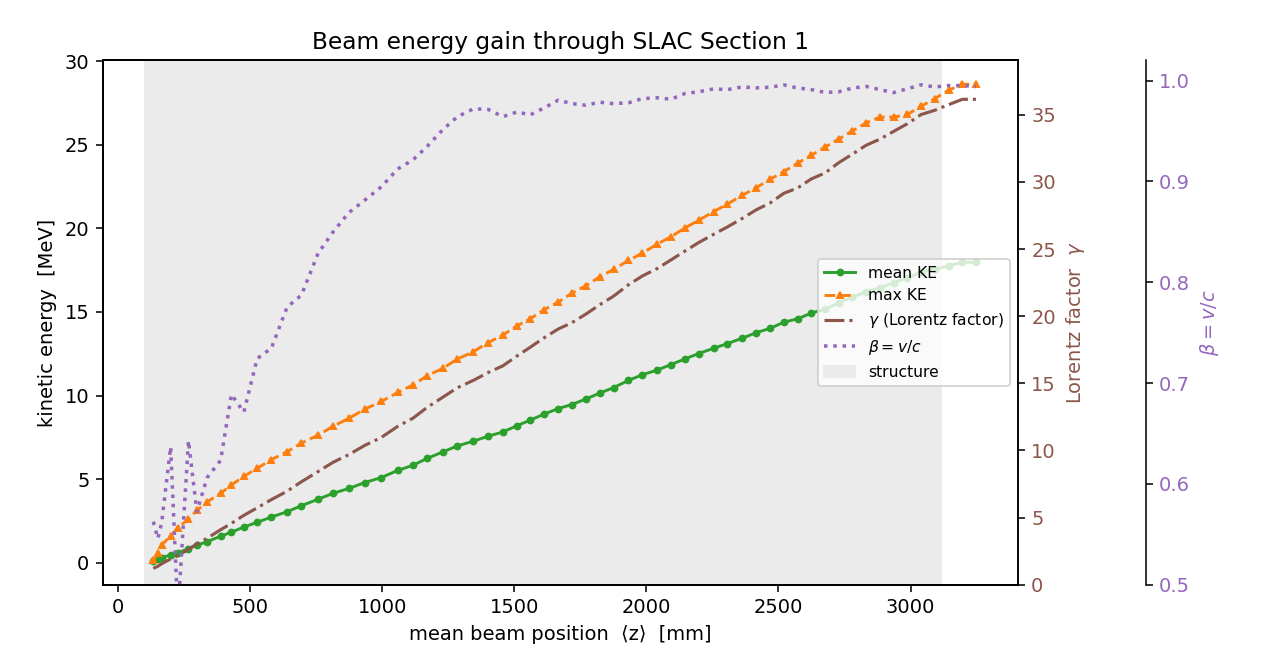
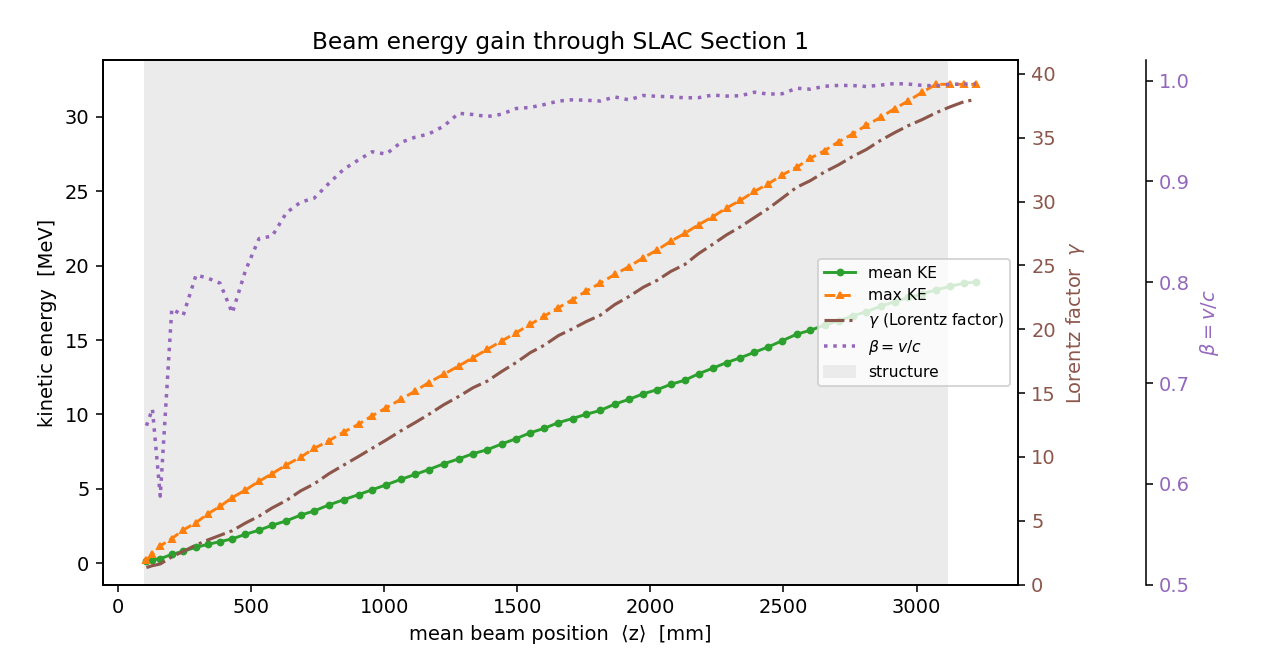
plots: local-in-z beam envelope via fixed-z virtual screens
Replace the gun's pooled z-histogram envelope/energy profile with a
fixed-z virtual-screen reconstruction: id-track each macroparticle across
the volumetric dumps and interpolate its phase space to every z-plane it
crosses, so each screen sees every particle exactly once. This is a true
local-in-z phase space with no z-binning and no quasi-DC pooling
assumption, removing the bin-to-bin sampling jitter in εn,x (a small
difference of large moments).

- pipeline/beam_metrics.py: new shared screen_profile() helper (mean/rms/
  max + emittance pairs per screen).
- gun/plot_gun.py: use screen_profile for beam_envelope + energy_gain.
- linac_sec1/plot_linac_sec1.py: σ_x envelope now the local screen value
  (was per-dump projected RMS); preserves real injection-mismatch
  oscillation, drops the projection smear.
- injector/plot_injector.py: tighten phase-space panels to the beam
  (charge-weighted percentile trim + pad).
- Docs (gun, linac_sec1 READMEs) + regenerated result figures.

diff --git a/pipeline/beam_metrics.py b/pipeline/beam_metrics.py
@@ -22,3 +22,92 @@ def rms_emit(q, uq, w):
     u2 = np.average((uq - um) ** 2, weights=w)
     qu = np.average((q - qm) * (uq - um), weights=w)
     return float(np.sqrt(max(q2 * u2 - qu * qu, 0.0)))
+
+
+def screen_profile(idP, zP, wP, quantities, emit_pairs=(), nscreen=80,
+                   min_cross=20, zlo=None, zhi=None):
+    """Charge-weighted beam moments on fixed-z virtual SCREENS (station diagnostic).
+
+    Pools every ``(id, dump)`` row and treats each macroparticle's id-trajectory as a
+    path that crosses every z-plane once (valid where motion is forward / monotonic in
+    z — accelerating WarpX stages). For each screen each crossing particle's listed
+    quantities are linearly interpolated along its own trajectory to the plane, then
+    charge-weighted moments are accumulated per screen. This is a true LOCAL-in-z phase
+    space: every screen sees each particle exactly once — no z-binning and no
+    pooling-stream assumption (a z-histogram of the pooled quasi-DC stream groups
+    unrelated particles and makes a difference-of-large-moments quantity like εn,x
+    jitter bin to bin). See gun/README.md → ``beam_envelope.png``.
+
+    Parameters
+    ----------
+    idP, zP, wP : (N,) arrays pooled over all dumps (particle id, z [m], weight).
+    quantities  : dict name -> (N,) array; per-screen mean/rms/max are returned for each.
+    emit_pairs  : iterable of (qname, uname) (both must be in ``quantities``); returns
+                  the raw rms emittance sqrt(⟨q²⟩⟨u²⟩−⟨qu⟩²) per screen for each pair.
+
+    Returns ``(screens, out)``: ``screens`` are the plane positions [m]; ``out`` has
+    ``count`` and dicts ``mean``/``rms``/``max`` (keyed by quantity name) and ``emit``
+    (keyed by the ``(qname, uname)`` tuple). All moments are RAW (caller scales units)
+    and NaN on screens crossed by < ``min_cross`` particles.
+    """
+    idP = np.asarray(idP); zP = np.asarray(zP, float); wP = np.asarray(wP, float)
+    names = list(quantities)
+    Q = {n: np.asarray(quantities[n], float) for n in names}
+    nan = np.full(nscreen, np.nan)
+    empty = dict(count=np.zeros(nscreen),
+                 mean={n: nan.copy() for n in names},
+                 rms={n: nan.copy() for n in names},
+                 max={n: nan.copy() for n in names},
+                 emit={p: nan.copy() for p in emit_pairs})
+    if zP.size == 0:
+        return np.linspace(0.0, 1.0, nscreen), empty
+    lo = zP.min() if zlo is None else zlo
+    hi = zP.max() if zhi is None else zhi
+    screens = np.linspace(lo, hi, nscreen)
+
+    W = np.zeros(nscreen); Cnt = np.zeros(nscreen)
+    S1 = {n: np.zeros(nscreen) for n in names}      # Σ w·v
+    S2 = {n: np.zeros(nscreen) for n in names}      # Σ w·v²
+    Mx = {n: np.full(nscreen, -np.inf) for n in names}
+    SP = {p: np.zeros(nscreen) for p in emit_pairs}  # Σ w·q·u (cross term)
+
+    order = np.argsort(idP, kind="stable")
+    ids = idP[order]
+    zs = zP[order]; ws = wP[order]
+    Qs = {n: Q[n][order] for n in names}
+    bnd = np.flatnonzero(np.r_[True, ids[1:] != ids[:-1], True])  # id-group boundaries
+    for g in range(len(bnd) - 1):
+        a, b = bnd[g], bnd[g + 1]
+        if b - a < 2:                               # need ≥2 dumps to interpolate
+            continue
+        o = a + np.argsort(zs[a:b])                 # np.interp needs increasing z
+        zi = zs[o]
+        m = (screens >= zi[0]) & (screens <= zi[-1])
+        if not m.any():
+            continue
+        si = np.flatnonzero(m); sc = screens[si]
+        wi = ws[a]                                  # weight is constant per id
+        vals = {n: np.interp(sc, zi, Qs[n][o]) for n in names}
+        W[si] += wi; Cnt[si] += 1.0
+        for n in names:
+            v = vals[n]
+            S1[n][si] += wi * v; S2[n][si] += wi * v * v
+            np.maximum.at(Mx[n], si, v)
+        for (qn, un) in emit_pairs:
+            SP[(qn, un)][si] += wi * vals[qn] * vals[un]
+
+    ok = Cnt >= min_cross
+    Wm = np.where(ok, W, np.nan)
+    out = dict(count=Cnt, mean={}, rms={}, max={}, emit={})
+    for n in names:
+        mu = S1[n] / Wm
+        out["mean"][n] = mu
+        out["rms"][n] = np.sqrt(np.clip(S2[n] / Wm - mu * mu, 0.0, None))
+        out["max"][n] = np.where(ok, Mx[n], np.nan)
+    for (qn, un) in emit_pairs:
+        mq = S1[qn] / Wm; mu = S1[un] / Wm
+        vq = S2[qn] / Wm - mq * mq
+        vu = S2[un] / Wm - mu * mu
+        cqu = SP[(qn, un)] / Wm - mq * mu
+        out["emit"][(qn, un)] = np.sqrt(np.clip(vq * vu - cqu * cqu, 0.0, None))
+    return screens, out

diff --git a/gun/plot_gun.py b/gun/plot_gun.py
@@ -16,7 +16,7 @@ from matplotlib.colors import LogNorm
 import openpmd_api as io
 from openpmd_viewer import OpenPMDTimeSeries
 
-from pipeline.beam_metrics import rms_emit
+from pipeline.beam_metrics import rms_emit, screen_profile
 
 MC2 = 0.51099895e3           # electron rest energy [keV]
 GUN_FIELD = "gun/gun_field/gun_E.h5"
@@ -62,12 +62,14 @@ def main():
 
     t_ns, zmean, ke_mean, ke_max, n_live = [], [], [], [], []
     sig_r, emit_nx = [], []
-    # Pooled (all-dump) columns binned by ACTUAL z for the per-z profile: a per-dump ⟨z⟩
-    # aggregate is meaningless for the timed quasi-DC stream (see README -> "Beam representation").
-    z_pool, ke_pool, x_pool, ux_pool, w_pool = [], [], [], [], []
+    # Pooled (all-dump) columns for the per-z profile, kept WITH the particle id so the profile
+    # is reconstructed as fixed-z virtual SCREENS (id-track each particle's crossing of every
+    # z-plane), not a z-histogram: a per-dump ⟨z⟩ aggregate is meaningless for the timed quasi-DC
+    # stream (see README -> "Beam representation"). See screen_profile().
+    id_pool, z_pool, ke_pool, x_pool, ux_pool, w_pool = [], [], [], [], [], []
     for i, it in enumerate(iters):
-        z, x, ux, uy, uz, w = ts.get_particle(
-            ["z", "x", "ux", "uy", "uz", "w"], species="electrons", iteration=it)
+        idp, z, x, ux, uy, uz, w = ts.get_particle(
+            ["id", "z", "x", "ux", "uy", "uz", "w"], species="electrons", iteration=it)
         n_live.append(len(z))
         t_ns.append(ts.t[i] * 1e9)
         if len(z) == 0:
@@ -77,6 +79,7 @@ def main():
         ke = (gamma_of(ux, uy, uz) - 1.0) * MC2
         zmean.append(z.mean() * 1e3)
         ke_mean.append(ke.mean()); ke_max.append(ke.max())
+        id_pool.append(idp.astype(np.int64))
         z_pool.append(z); ke_pool.append(ke); x_pool.append(x); ux_pool.append(ux); w_pool.append(w)
         # Single-plane RMS σ_x = sqrt(⟨(x−⟨x⟩)²⟩) [mm] (pairs with εn,x); radial RMS is √2·σ_x.
         xm = np.average(x, weights=w)
@@ -90,26 +93,18 @@ def main():
     print(f"beam: {n_live[0]} launched, {n_live[-1]} at last dump; "
           f"peak ⟨KE⟩ {np.nanmax(ke_mean):.1f} keV, max KE {np.nanmax(ke_max):.1f} keV")
 
-    # ── Per-z PROFILE (pooled over all dumps), binned by actual z ──────────────
+    # ── Per-z PROFILE via fixed-z virtual SCREENS (id-tracked plane crossings) ──
     zc = kez = kezmax = sxz = enz = np.array([])
     if z_pool:
-        zP = np.concatenate(z_pool); keP = np.concatenate(ke_pool)
-        xP = np.concatenate(x_pool); uxP = np.concatenate(ux_pool); wP = np.concatenate(w_pool)
-        nbin = 60
-        edges = np.linspace(0.0, zP.max(), nbin + 1)
-        idx = np.clip(np.digitize(zP, edges) - 1, 0, nbin - 1)
-        zc = 0.5 * (edges[:-1] + edges[1:]) * 1e3      # bin centers [mm]
-        kez = np.full(nbin, np.nan); kezmax = np.full(nbin, np.nan)
-        sxz = np.full(nbin, np.nan); enz = np.full(nbin, np.nan)
-        for b in range(nbin):
-            m = idx == b
-            if m.sum() < 20:                            # ignore sparse edge bins
-                continue
-            xb, uxb, wb, keb = xP[m], uxP[m], wP[m], keP[m]
-            kez[b] = np.average(keb, weights=wb); kezmax[b] = keb.max()
-            xm = np.average(xb, weights=wb)
-            sxz[b] = np.sqrt(np.average((xb - xm) ** 2, weights=wb)) * 1e3
-            enz[b] = rms_emit(xb, uxb, wb) * 1e6
+        idP = np.concatenate(id_pool); zP = np.concatenate(z_pool)
+        xP = np.concatenate(x_pool); uxP = np.concatenate(ux_pool)
+        keP = np.concatenate(ke_pool); wP = np.concatenate(w_pool)
+        screens, prof = screen_profile(
+            idP, zP, wP, {"x": xP, "ux": uxP, "ke": keP}, emit_pairs=[("x", "ux")])
+        zc = screens * 1e3                                  # [mm]
+        sxz = prof["rms"]["x"] * 1e3                        # σ_x [mm]
+        enz = prof["emit"][("x", "ux")] * 1e6              # εn,x [mm·mrad]
+        kez = prof["mean"]["ke"]; kezmax = prof["max"]["ke"]
 
     # ── Fig 2: r–z at launch / mid / exit ─────────────────────────────────────
     live = [it for it, n in zip(iters, n_live) if n > 0]

diff --git a/linac_sec1/plot_linac_sec1.py b/linac_sec1/plot_linac_sec1.py
@@ -14,6 +14,7 @@ import matplotlib.pyplot as plt
 import openpmd_api as io
 from openpmd_viewer import OpenPMDTimeSeries
 
+from pipeline.beam_metrics import screen_profile
 from .build_linac_sec1_field import Z_STRUCT, RMAX, BORE_R
 from . import DEFAULT_OUTDIR
 
@@ -63,10 +64,11 @@ def beam_track(diag):
         return None
     rec = dict(z=[], ke=[], kemax=[], beta=[], sigx=[], q=[])
     snaps = {}
+    pool = {k: [] for k in ("id", "z", "x", "w")}   # pooled (id, dump) rows → screen envelope
     q_entered = None                              # charge in the FIRST dump (already post-scrape)
     for it in its:
-        x, y, z, ux, uy, uz, w = ts.get_particle(   # species plural "electrons"
-            ["x", "y", "z", "ux", "uy", "uz", "w"], species="electrons", iteration=it)
+        idp, x, y, z, ux, uy, uz, w = ts.get_particle(   # species plural "electrons"
+            ["id", "x", "y", "z", "ux", "uy", "uz", "w"], species="electrons", iteration=it)
         if q_entered is None:
             q_entered = w.sum()
         if len(z) < 5:
@@ -80,8 +82,19 @@ def beam_track(diag):
         rec["sigx"].append(wstat(x, w)[1])        # centered weighted RMS
         rec["q"].append(w.sum())
         snaps[it] = (z, ke, w)
+        pool["id"].append(idp.astype(np.int64))
+        pool["z"].append(z); pool["x"].append(x); pool["w"].append(w)
     for k in rec:
         rec[k] = np.asarray(rec[k])
+    # Local-in-z envelope on fixed virtual screens (id-tracked plane crossings): a local σ_x(z)
+    # rather than the per-dump PROJECTED σ_x (which mixes the beam's whole z-extent at each dump).
+    # See pipeline/beam_metrics.screen_profile and linac_sec1/README.md → beam_envelope.
+    if pool["id"]:
+        screens, prof = screen_profile(
+            np.concatenate(pool["id"]), np.concatenate(pool["z"]),
+            np.concatenate(pool["w"]), {"x": np.concatenate(pool["x"])})
+        rec["z_screen"] = screens
+        rec["sigx_screen"] = prof["rms"]["x"]
     if not rec["z"].size:
         return None
     if not q_entered:
@@ -184,7 +197,12 @@ def main():
 
     # Fig 4: transverse envelope + survival
     fig, (a1, a2) = plt.subplots(2, 1, figsize=(8.2, 6.4), constrained_layout=True, sharex=True)
-    a1.plot(rec["z"] * 1e3, rec["sigx"] * 1e3, "o-", color="C0", ms=3)
+    # Local σ_x(z) on fixed virtual screens (id-tracked crossings) — smooth, local-in-z,
+    # vs the per-dump projected σ_x. Falls back to per-dump if the screen profile is absent.
+    if "z_screen" in rec:
+        a1.plot(rec["z_screen"] * 1e3, rec["sigx_screen"] * 1e3, "o-", color="C0", ms=3)
+    else:
+        a1.plot(rec["z"] * 1e3, rec["sigx"] * 1e3, "o-", color="C0", ms=3)
     a1.axhline(BORE_R * 1e3, color="k", ls=":", lw=1, label="structure bore")
     a1.axhline(RMAX * 1e3, color="0.5", ls=":", lw=1, label="domain wall")
     a1.set_ylabel(r"RMS size  $\sigma_x$  [mm]")

diff --git a/injector/plot_injector.py b/injector/plot_injector.py
@@ -352,6 +352,15 @@ def per_case_figure(name, rec, base):
         h = ax.hist2d(zc, kc, bins=120, weights=w * Q_E * 1e9, cmap="inferno",
                       cmin=np.finfo(float).tiny)
         fig.colorbar(h[3], ax=ax, label="charge  [nC/bin]", fraction=0.046, pad=0.02)
+        # Tighten each panel to its beam: trim the sparse tails (0.1–99.9 charge-
+        # weighted percentile) + a 5% pad so the density fills the panel.
+        def _wpct(v, q):
+            o = np.argsort(v); vs, cw = v[o], np.cumsum(w[o]); cw /= cw[-1]
+            return np.interp(q, cw, vs)
+        for lim, vals in ((ax.set_xlim, zc), (ax.set_ylim, kc)):
+            lo, hi = _wpct(vals, 1e-3), _wpct(vals, 1 - 1e-3)
+            pad = 0.05 * (hi - lo) or 1.0
+            lim(lo - pad, hi + pad)
         zi = rec["it"].index(it)
         ax.set_xlabel("z − ⟨z⟩  [mm]"); ax.set_ylabel("KE − ⟨KE⟩  [keV]")
         ax.set_title(f"{ti}  (⟨z⟩={rec['zmean'][zi]*1e3:.0f} mm)")

diff --git a/gun/README.md b/gun/README.md
@@ -256,13 +256,20 @@ recipe, not just a WarpX convention.
    accelerating field the beam sees (Ez < 0, 150 kV total drop).
 2. **`beam_rz.png`** — `r–z` beam distribution at launch / mid-gun / exit: transport through
    the gun, including the near-cathode radial focusing.
-3. **`energy_gain.png`** — mean and max kinetic energy vs. ⟨z⟩, climbing toward ~150 keV.
+3. **`energy_gain.png`** — mean and max kinetic energy vs. z, climbing toward ~150 keV.
 4. **`exit_phase_space.png`** — longitudinal `z–KE` phase space and the energy spectrum at the
    last dump.
 5. **`beam_envelope.png`** — per-plane RMS size `σ_x = √⟨x²⟩` and normalized transverse emittance
-   `εn,x` vs. `⟨z⟩`: the near-cathode radial focusing of `beam_rz.png` made quantitative, plus the
+   `εn,x` vs. `z`: the near-cathode radial focusing of `beam_rz.png` made quantitative, plus the
    space-charge / aberration emittance growth along the gun. (`σ_x` is the single-plane RMS that
-   pairs with `εn,x`; the radial RMS is `√⟨r²⟩ = √2·σ_x`.)
+   pairs with `εn,x`; the radial RMS is `√⟨r²⟩ = √2·σ_x`.) The profile is reconstructed on **fixed-z
+   virtual screens** (`pipeline/beam_metrics.screen_profile`), NOT a z-histogram: each macroparticle's
+   id-trajectory across the volumetric dumps is interpolated to every z-plane it crosses (gun motion
+   is forward/monotonic-z, so each particle hits each screen exactly once), and the charge-weighted
+   moments are accumulated per screen. This is a true local phase space — no z-binning and no
+   pooling-stream assumption — so `εn,x` (a small difference of large moments) is smooth in z rather
+   than carrying the bin-to-bin sampling jitter a z-histogram of the pooled quasi-DC stream produces.
+   `energy_gain.png` shares the same screen reconstruction.
 6. **`space_charge.png`** — `r–z` maps of the beam **self-field** (`ρ` and the space-charge
    potential well `φ`, ≈ −250 V) at a near-launch snapshot — the dumped self-field nothing else
    plots, and the well that motivates renormalizing the bunch to 1 nC.

diff --git a/linac_sec1/README.md b/linac_sec1/README.md
@@ -196,8 +196,13 @@ writing five figures to `results/`:
 - `energy_gain.png` — ⟨KE⟩ and max KE vs ⟨z⟩ (~220 keV → ~25 MeV mean / ~32 MeV max for the
   captured slice) with β → 1; the structure shaded.
 - `long_phase_space.png` — (z − ⟨z⟩) vs KE at injection / mid / exit: capture into the RF bucket.
-- `beam_envelope.png` — σ_x and surviving charge vs ⟨z⟩ with the bore line. The survival panel is
-  normalised to the **injected** charge and shows the iris-collimation drop at the first dump
+- `beam_envelope.png` — σ_x and surviving charge vs z with the bore line. σ_x is the **local**
+  envelope reconstructed on fixed-z virtual screens (`pipeline/beam_metrics.screen_profile`):
+  each macroparticle's id-trajectory across the volumetric dumps is interpolated to every z-plane
+  it crosses (forward/monotonic z), so σ_x(z) is local rather than the per-dump **projected** RMS
+  (which mixes the beam's whole z-extent at each dump). Real envelope oscillation from the
+  injection mismatch survives; the projection smear does not. The survival panel is per-dump,
+  normalised to the **injected** charge, showing the iris-collimation drop at the first dump
   (r > RMAX = 9.547 mm scrape) followed by the RF-capture loss.
 - `exit_spectrum_capture.png` — exit energy spectrum (pC/bin) and the captured fraction **of the
   true injected charge** (~7 % at the faithful 11 MW point), annotated with how much charge
